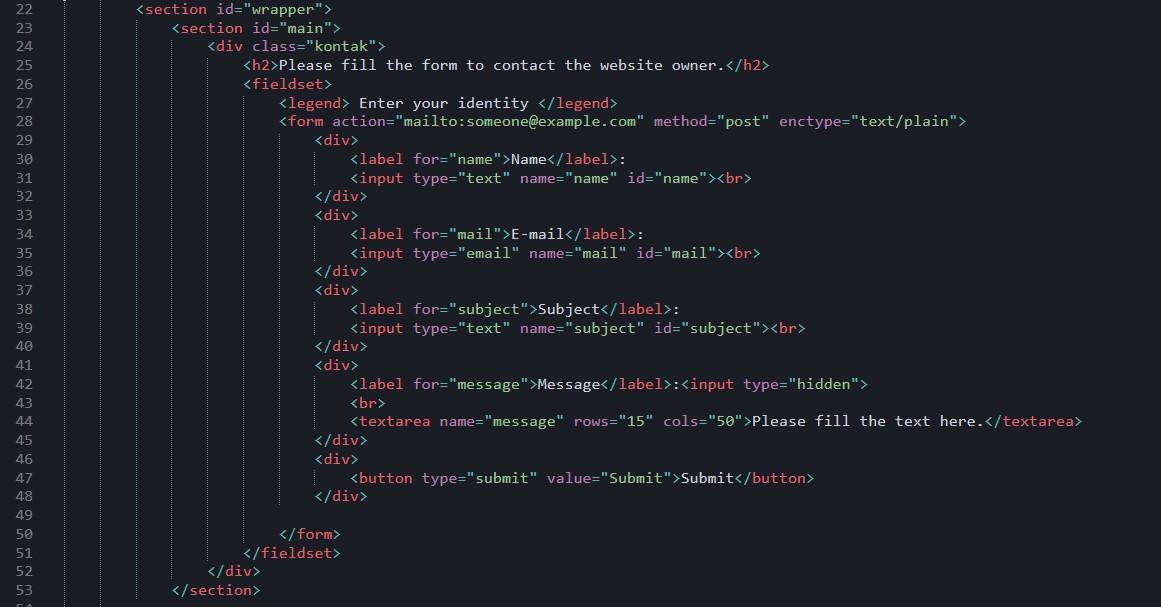
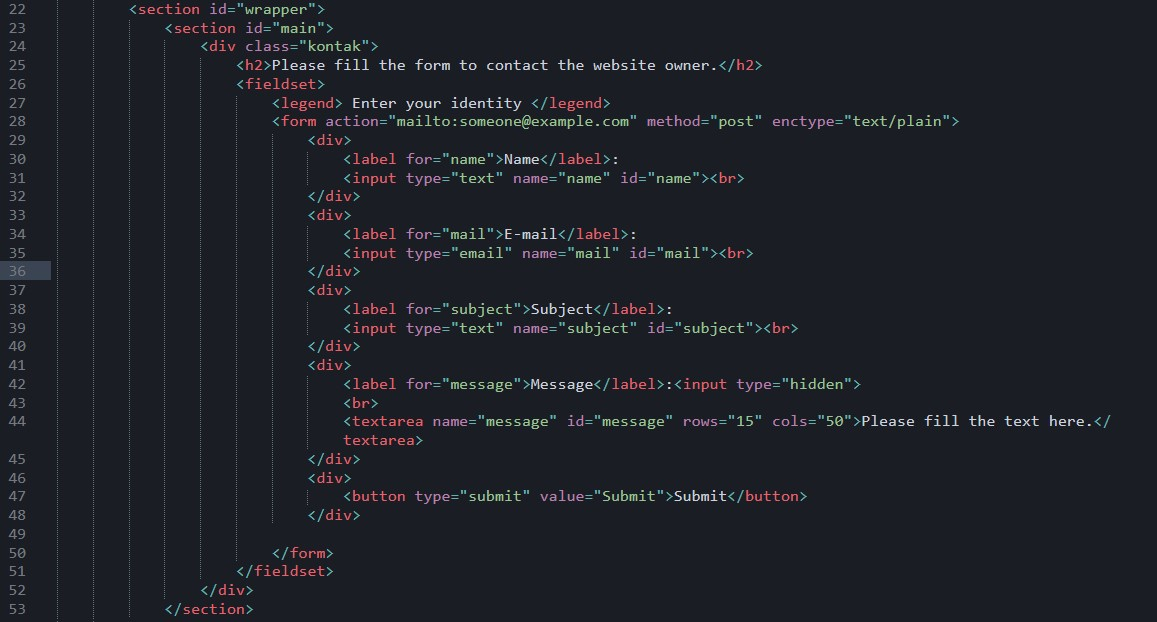
update readme & ss

Changed region(s): [[0.0933, 0.0, 0.9334, 1.0], [0.0, 0.0, 0.0622, 1.0]]

diff --git a/lab4_layout/style.css b/lab4_layout/style.css
@@ -171,6 +171,18 @@ box img {
 
 /*about*/
 
+#main > p {
+    text-indent: 42px;
+    margin-top: 9px;
+}
+.center {
+    display: block;
+    margin-top: auto;
+    margin-right: auto;
+    margin-left: auto;
+    margin-bottom: auto;
+    width: 50%;
+}
 .about {
     margin-top: 1px;
     margin-right: 0;
@@ -221,14 +233,7 @@ box img {
 .entry .right-img {
 	float: right;
 }
-.center {
-    display: block;
-    margin-top: auto;
-    margin-right: auto;
-    margin-left: auto;
-    margin-bottom: auto;
-    width: 50%;
-}
+
 
 
 /*kontak*/
@@ -267,8 +272,4 @@ box img {
     padding-left: 11px;
     padding-right: 10px;
     padding-top: 9px;
-}
-#main > p {
-    text-indent: 42px;
-    margin-top: 9px;
 }

diff --git a/lab4_layout/kontak.html b/lab4_layout/kontak.html
@@ -41,12 +41,12 @@
 							<div>
 								<label for="message">Message</label>:<input type="hidden">
 								<br>
-								<textarea name="message" rows="15" cols="50">Please fill the text here.</textarea>
+								<textarea name="message" id="message" rows="15" cols="50">Please fill the text here.</textarea>
 							</div>
 							<div>
 								<button type="submit" value="Submit">Submit</button>
 							</div>
-							
+
 						</form>
 					</fieldset>
 				</div>

diff --git a/README.md b/README.md
@@ -1,1 +1,181 @@
-README.md
+
+
+# PRAKTIKUM PEMROGRAMAN WEB 4
+
+## Praktikum
+
+Praktikum membuat box & layout menggunakan html & css. Praktikum dilakukan dengan mengikuti petunjuk pada modul yang sudah disediakan.
+
+## 1. Box Element
+
+### Float
+
+Box element di bawah ini dapat digunakan untuk membuat layout pada sebuah website. 
+
+![enter image description here](https://github.com/antonmartinus72/Lab4Web/raw/main/assets/1_ss.jpg)
+
+Tag html utama yang digunakan adalah `<div>` yang disusun pada satu baris dengan properti`float` pada css. Deklarasi yang digunakan adalah `float:left;` yang berarti box akan disusun ke kanan.
+
+![enter image description here](https://github.com/antonmartinus72/Lab4Web/raw/main/assets/1_code.jpg)
+
+## 2. Clearfix Element
+
+Box dengan  tag `<div>` dengan atribut `class="div4"` di bawah ini menggunakan properti `clear` dengan value `left` pada html untuk membersihkan elemen yang sebelumnya menggunakan properti `float`.
+
+![enter image description here](https://github.com/antonmartinus72/Lab4Web/raw/main/assets/2_ss.jpg)
+
+Dapat dilihat bahwa box **div 4** berwarna biru diatas tidak terpengaruh oleh css diatasnya yang menggunakan selector `div`.
+
+![enter image description here](https://github.com/antonmartinus72/Lab4Web/raw/main/assets/2_code.jpg)
+
+### Menggunakan deklarasi css `clear:both;`
+
+![enter image description here](https://github.com/antonmartinus72/Lab4Web/raw/main/assets/2a_ss.jpg)
+
+### Menggunakan deklarasi css`clear:right;`
+
+![enter image description here](https://github.com/antonmartinus72/Lab4Web/raw/main/assets/2b_ss.jpg)
+
+## 3. Layout
+
+Layout dasar dengan hanya menggunakan html.
+
+![enter image description here](https://github.com/antonmartinus72/Lab4Web/raw/main/assets/3_ss.jpg)
+
+Kode html yang digunakan untuk membentuk kerangka layout di atas.
+
+![enter image description here](https://github.com/antonmartinus72/Lab4Web/raw/main/assets/3_code.jpg)
+
+Properti CSS pada dasarnya mempunyai value default. Value default ini memberikan nilai awal seperti pada properti `margin`. CSS dibawah ini digunakan untuk mereset value css default untuk memudahkan mengatur layout.
+
+![enter image description here](https://github.com/antonmartinus72/Lab4Web/raw/main/assets/3_css.jpg)
+
+## 4.  Navigasi
+
+Navigasi adalah salah satu bentuk layout yang berisi opsi dan link pada website yang digunakan untuk berpindah halaman. 
+
+![enter image description here](https://github.com/antonmartinus72/Lab4Web/raw/main/assets/4_ss.jpg)
+
+Navigasi ini dibentuk berurutan menggunakan deklarasi css `display: block;` pada selector `nav` dan `display: block;`  pada selector `nav a`.
+
+![enter image description here](https://github.com/antonmartinus72/Lab4Web/raw/main/assets/4_css.jpg)
+
+Setiap opsi navigasi juga menggunakan properti pseudo `active` dan `hover` untuk merubah warna background saat dalam keadaan tertentu.
+
+## 5.  Hero Layout
+
+**Tampilan hero layout sebelum menggunakan css.**
+
+![enter image description here](https://github.com/antonmartinus72/Lab4Web/raw/main/assets/5_ss.jpg)
+
+Kode html.
+
+![enter image description here](https://github.com/antonmartinus72/Lab4Web/raw/main/assets/5_code.jpg)
+
+<hr>
+
+**Tampilan hero layout menggunakan css.**
+
+Dibawah ini adalah layout hero yang sudah menggunakan css. Layout hero dibawah ini mengisi seluruh lembar kerja secara vertikal.
+
+![enter image description here](https://github.com/antonmartinus72/Lab4Web/raw/main/assets/6_ss.jpg)
+
+Properti CSS yang digunakan adalah `padding`, `margin`, `background-color` dan properti untuk mengatur teks.
+
+![enter image description here](https://github.com/antonmartinus72/Lab4Web/raw/main/assets/6_css.jpg)
+
+
+## 6. Layout Main
+
+Layout dibawah ini merupakan bagian utama dari website yang berisi konten utama yang disajikan pada halaman. Layout dibawah ini belum menggunakan css.
+
+![enter image description here](https://github.com/antonmartinus72/Lab4Web/raw/main/assets/7_ss.jpg)
+
+Layout main diletakan di sebelah kiri halaman dengan menggunakan deklarasi `float: left;`. Untuk bagian sebelah kanan halaman akan di isi dengan layout sidebar.
+
+![enter image description here](https://github.com/antonmartinus72/Lab4Web/raw/main/assets/7_css.jpg)
+
+## 7. Sidebar Widget
+
+Sidebar dibawah ini diletakan disamping halaman dan bersebelahan dengan layout main yang berisi informasi tambahan atau link untuk ke halaman lainnya.
+
+![enter image description here](https://github.com/antonmartinus72/Lab4Web/raw/main/assets/8_ss.jpg)
+
+Kode html tambahan didalam sidebar.
+
+![enter image description here](https://github.com/antonmartinus72/Lab4Web/raw/main/assets/8_code.jpg)
+
+Layout sidebar ini mengikuti layout yang ditulis diatasnya pada kode html yaitu **"main"** yang menggunakan deklarasi css `float: left;`, sehingga layout sidebar akan otomatis  berada pada posisi kanan halaman.
+
+![enter image description here](https://github.com/antonmartinus72/Lab4Web/raw/main/assets/8_css.jpg)
+
+## 8. Footer
+
+Footer pada halaman website diletakan di akhir halaman seperti berikut :
+
+![enter image description here](https://github.com/antonmartinus72/Lab4Web/raw/main/assets/9_ss.jpg)
+
+Deklarasi `clear: both;` di bawah ini digunakan agar footer tidak terpengaruh implementasi properti `float` di atasnya.
+
+![enter image description here](https://github.com/antonmartinus72/Lab4Web/raw/main/assets/9_css.jpg)
+
+## 9. Content
+
+Layout main yang sudah dibuat masih kosong dan perlu di isi. Salah satunya diisi dengan konten yang dikehendaki pemilik website. Konten dibawah ini belum menggunakan css.
+
+![enter image description here](https://github.com/antonmartinus72/Lab4Web/raw/main/assets/10_ss.jpg)
+
+Layout konten di atas menggunakan css seperti dibawah ini. Masing-masing kotak menggunakan deklarasi `float: left;` untuk membuat kotak menjadi satu baris vertikal.  Bentuk kotak juga menggunakan deklarasi `border-radius: 50%;` yang membuat kotak menjadi berbentuk bulat.
+
+![enter image description here](https://github.com/antonmartinus72/Lab4Web/raw/main/assets/11_css.jpg)
+
+Dengan css diatas maka tampilan akan menjadi seperti di bawah ini ;
+
+![enter image description here](https://github.com/antonmartinus72/Lab4Web/raw/main/assets/11_ss.jpg)
+
+## 10.  Article
+
+Artikel dalam website biasanya berisi bacaan deskripsi, narasi dan lain-lain. Artikel dibawah ini belum menggunakan css.
+
+![enter image description here](https://github.com/antonmartinus72/Lab4Web/raw/main/assets/12_ss.jpg)
+
+Kode html yang digunakan pada artikel di atas :
+
+![enter image description here](https://github.com/antonmartinus72/Lab4Web/raw/main/assets/12_code.jpg)
+
+Artikel yang sudah menggunakan css akan terlihat seperti berikut :
+
+![enter image description here](https://github.com/antonmartinus72/Lab4Web/raw/main/assets/13_ss.jpg)
+
+Gambar pada bagian kiri dan kanan layout di atas menggunakan properti `float` untuk menentukan posisi gambar tersebut.
+Selebihnya gambar ditambahkan properti `border-radius` untuk membuat sudut tumpul pada gambar serta margin untuk memberikan jarak antara gambar dan text.
+
+![enter image description here](https://github.com/antonmartinus72/Lab4Web/raw/main/assets/13_css.jpg)
+
+## 11. Layout Halaman About
+
+Halaman ini dibuat untuk mengisi halaman about yang terdapat pada navigasi. Pada halaman ini pemilik dapat menambahkan informasi tentang website tersebut maupun tentang pemilik. 
+
+![enter image description here](https://github.com/antonmartinus72/Lab4Web/raw/main/assets/14_ss.jpg)
+
+Tampilan keseluruhan di atas dibuat dengan memodifikasi layout yang sudah ada. Khususnya pada bagian **main** yang di isi dengan informasi dan gambar tentang website tersebut.
+
+Properti yang sebagian besar digunakan adalah `margin` dan `padding`. Untuk gambar menggunakan `border-radius` untuk membuat sudut tumpul pada gambar dan menggunakan class `center` yang sudah didefinisikan untuk membuat gambar dan text di bawahnya berada di tengah. 
+
+![enter image description here](https://github.com/antonmartinus72/Lab4Web/raw/main/assets/14_css.jpg)
+
+## 12. Layout Halaman About
+
+Navigasi kontak diisi dengan halaman yang memberikan informasi kepada pengunjung untuk dapat menghubungi pemilik website.
+
+![enter image description here](https://github.com/antonmartinus72/Lab4Web/raw/main/assets/15_ss.jpg)
+
+Untuk pengisian data seperti nama da email menggunakan tag form pada html dengan `action` langsung ke alamat email pemilik website.
+
+![enter image description here](https://github.com/antonmartinus72/Lab4Web/raw/main/assets/15_code.jpg)
+
+CSS yang digunakan pada css tidak terlalu banyak, hanya menggunakan beberapa properti untuk mengubah posisi input ke sebelah kanan dan membuat tombol submit berwarna biru.
+
+![enter image description here](https://github.com/antonmartinus72/Lab4Web/raw/main/assets/15_css.jpg)
+
+## Sekian & Terimakasih.
